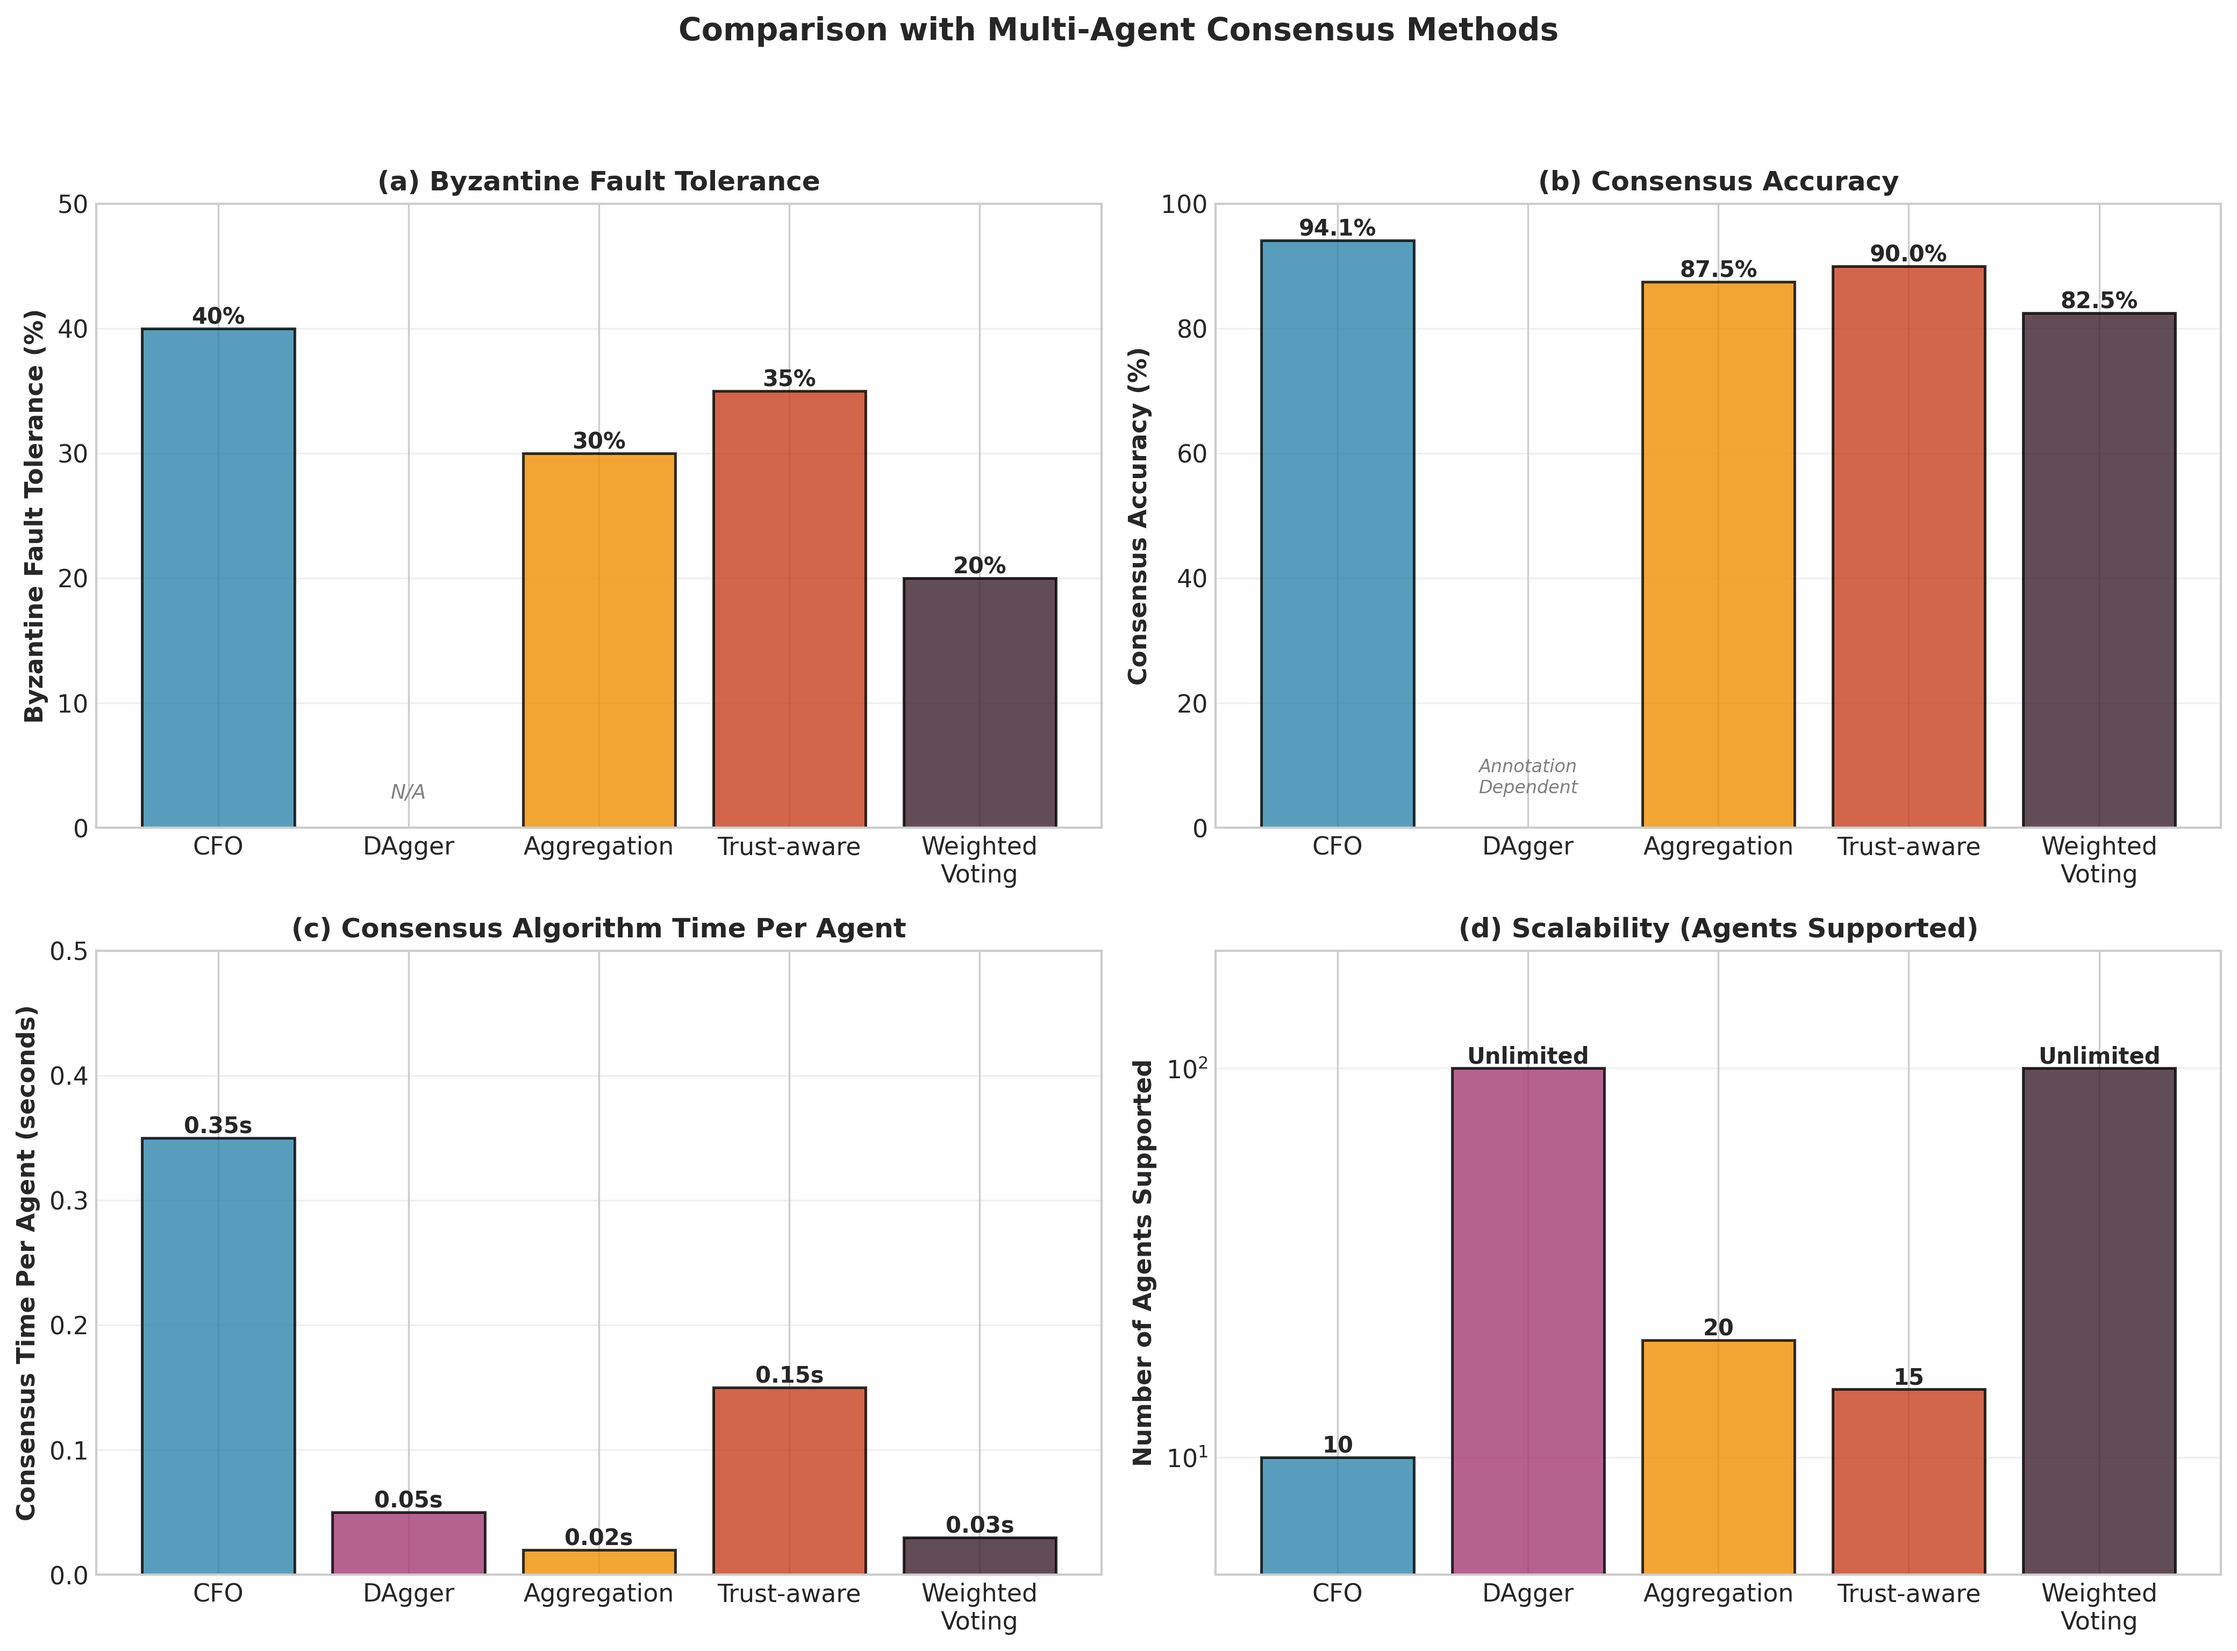
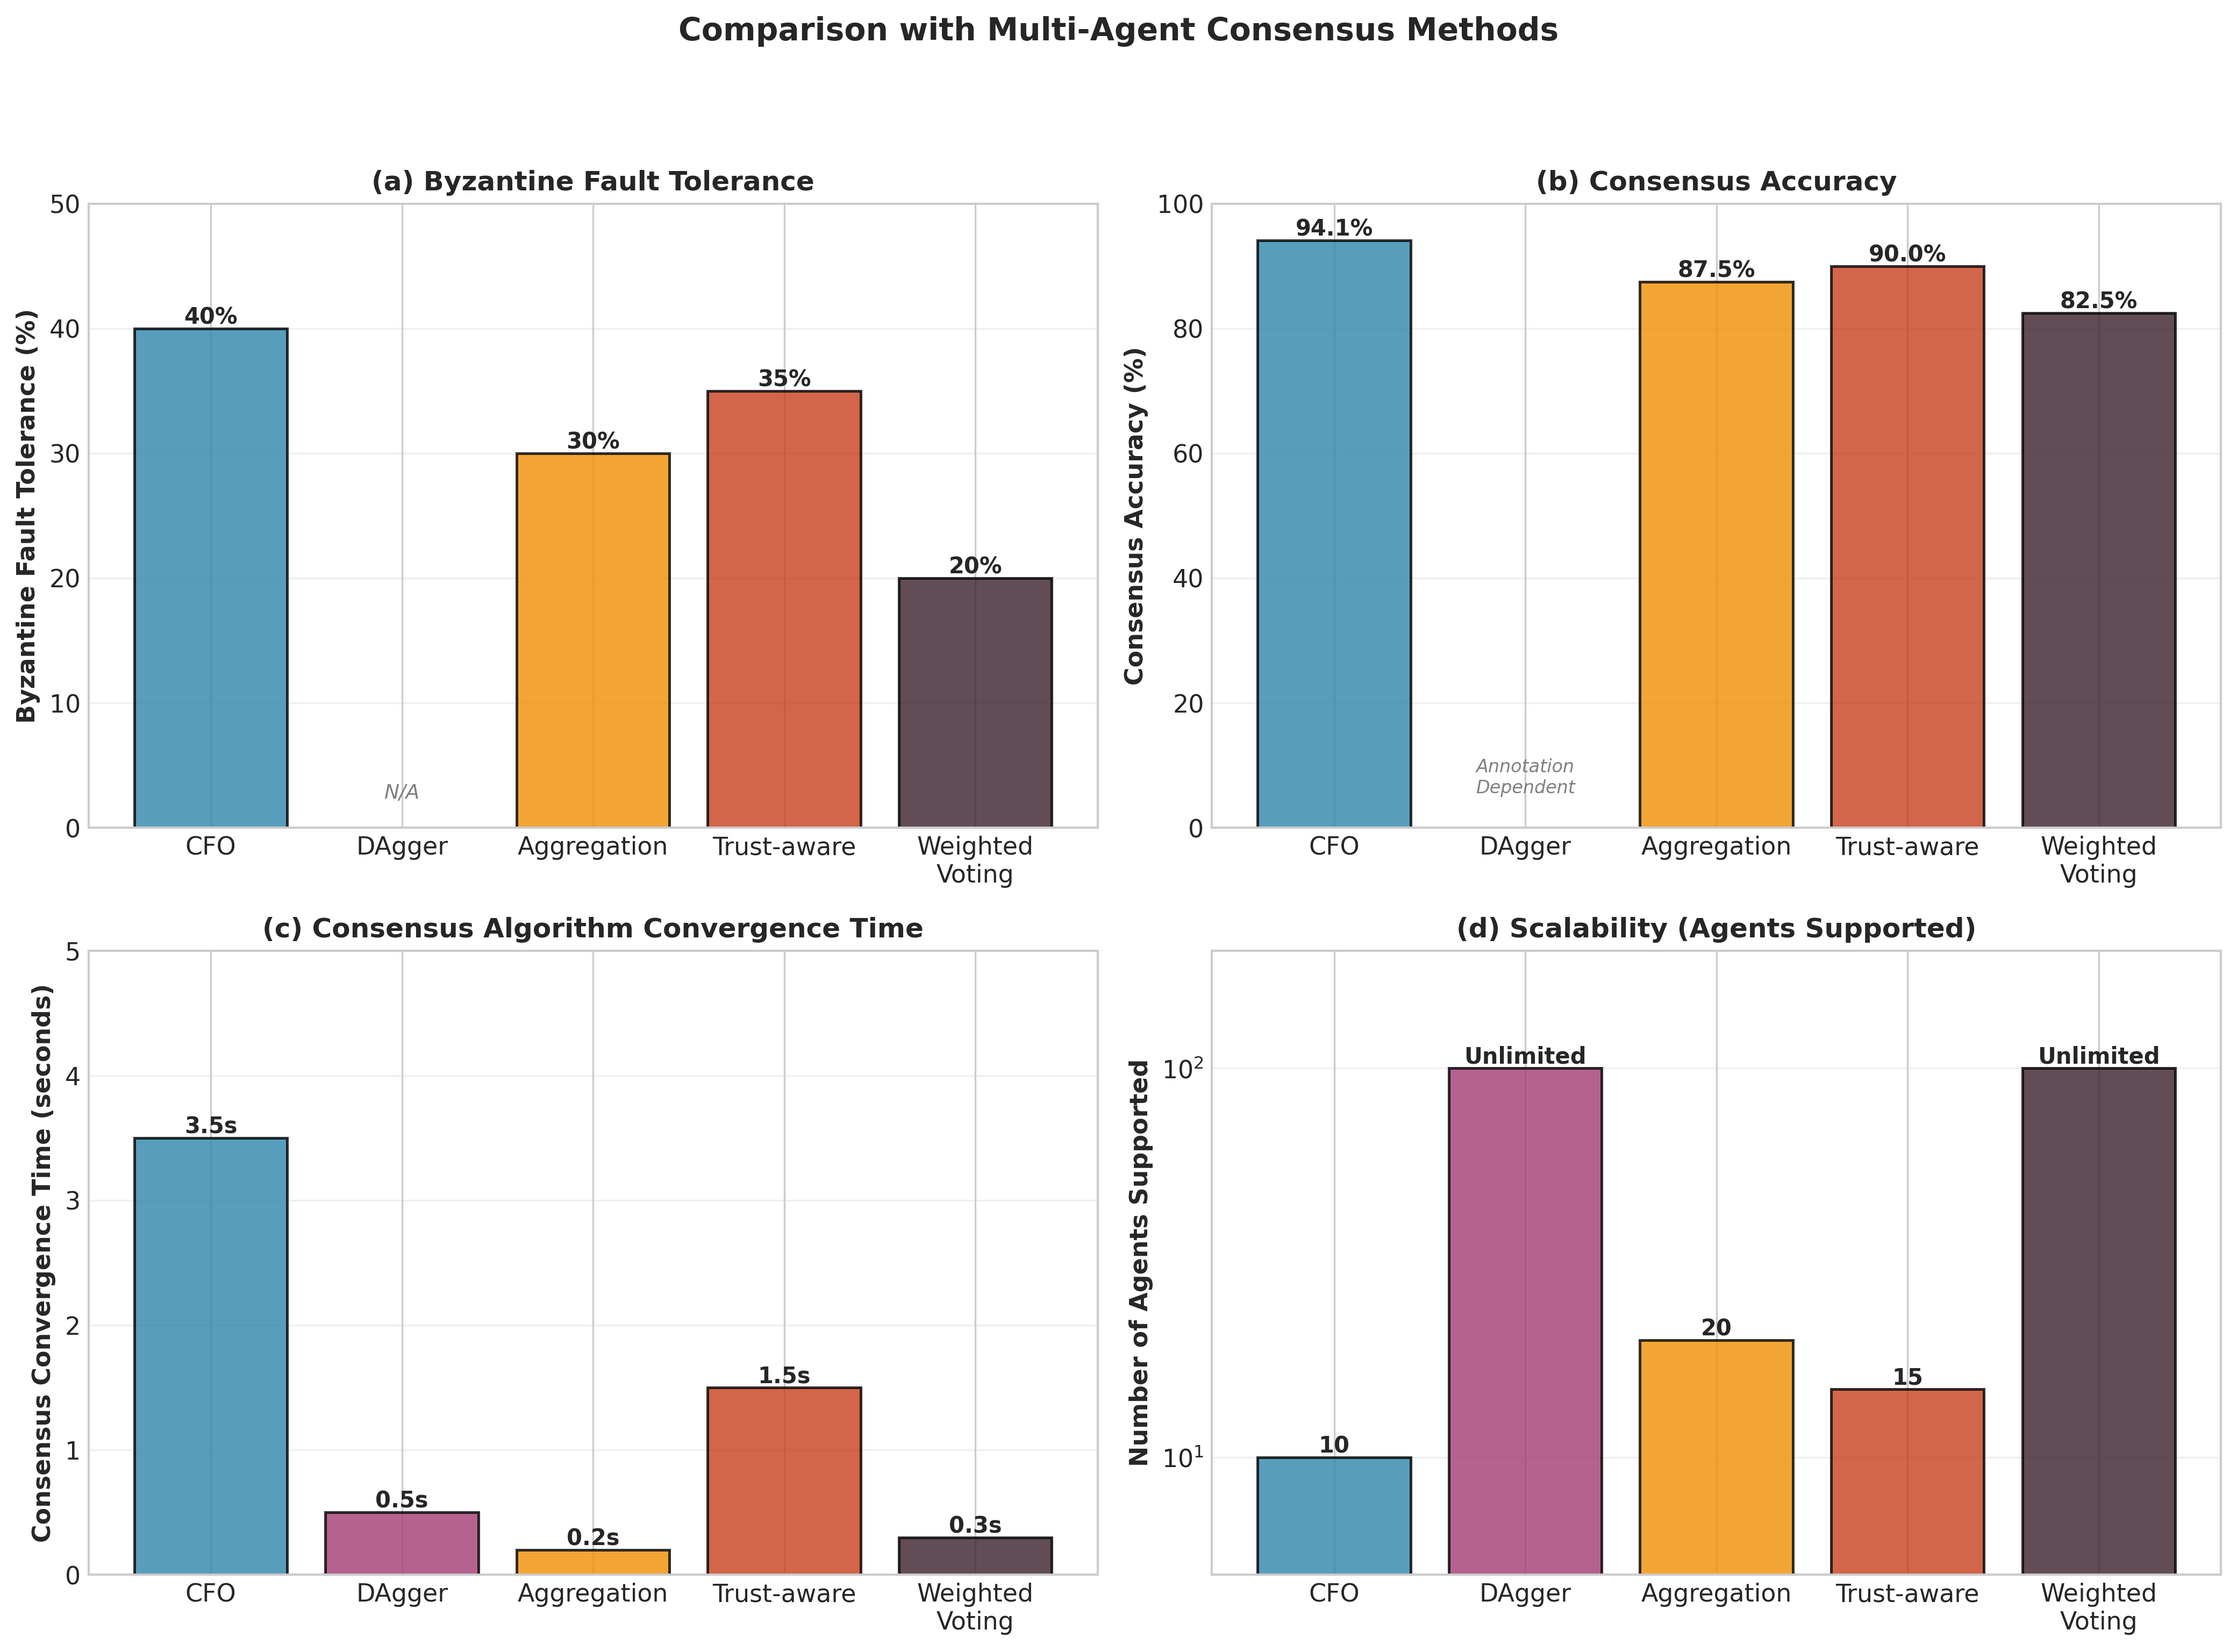
chore: 更新可视化脚本和对比图片

diff --git a/visualize_comparison.py b/visualize_comparison.py
@@ -35,26 +35,31 @@ def plot_bft_comparison():
     x = np.arange(len(methods))
     width = 0.35
     
-    # Create bar chart
+    # Set grid first (behind bars)
+    ax.grid(True, alpha=0.3, axis='y', zorder=0)
+    ax.set_axisbelow(True)  # Ensure grid is behind all artists
+    
+    # Create bar chart (zorder=3 to be above grid)
     bars1 = ax.bar(x - width/2, byzantine_tolerance, width, 
-                   label='Byzantine Tolerance (%)', color='#2E86AB', alpha=0.8)
+                   label='Byzantine Tolerance (%)', color='#2E86AB', alpha=0.8, zorder=3)
     
     ax2 = ax.twinx()
+    ax2.grid(False)  # Disable grid on second axis
     bars2 = ax2.bar(x + width/2, consensus_delay, width, 
-                    label='Consensus Delay (s)*', color='#A23B72', alpha=0.8)
+                    label='Consensus Delay (s)*', color='#A23B72', alpha=0.8, zorder=3)
     
-    # Add value labels
+    # Add value labels (zorder=4 to be on top)
     for bar in bars1:
         height = bar.get_height()
         ax.text(bar.get_x() + bar.get_width()/2., height,
                 f'{height:.1f}%',
-                ha='center', va='bottom', fontsize=10, fontweight='bold')
+                ha='center', va='bottom', fontsize=10, fontweight='bold', zorder=4)
     
     for bar in bars2:
         height = bar.get_height()
         ax2.text(bar.get_x() + bar.get_width()/2., height,
                 f'{height:.1f}s',
-                ha='center', va='bottom', fontsize=10, fontweight='bold')
+                ha='center', va='bottom', fontsize=10, fontweight='bold', zorder=4)
     
     ax.set_ylabel('Byzantine Tolerance (%)', fontsize=12, fontweight='bold')
     ax2.set_ylabel('Consensus Delay (s)', fontsize=12, fontweight='bold')
@@ -79,9 +84,6 @@ def plot_bft_comparison():
     fig.text(0.5, 0.02, 
              '*CFO: ~3.5s for consensus algorithm (excluding 60-90s for 30 sequential LLM API calls)',
              ha='center', fontsize=9, style='italic', color='#666')
-    
-    # Add grid
-    ax.grid(True, alpha=0.3, axis='y')
     
     plt.tight_layout(rect=[0, 0.03, 1, 1])
     plt.savefig('comparison_bft.png', dpi=300, bbox_inches='tight')
@@ -151,25 +153,30 @@ def plot_multi_agent_comparison():
     x = np.arange(len(methods))
     width = 0.35
     
+    # Set grid first (behind bars)
+    ax.grid(True, alpha=0.3, axis='y', zorder=0)
+    ax.set_axisbelow(True)  # Ensure grid is behind all artists
+    
     bars1 = ax.bar(x - width/2, byzantine_tolerance, width,
-                   label='Byzantine Tolerance (%)', color='#2E86AB', alpha=0.8)
+                   label='Byzantine Tolerance (%)', color='#2E86AB', alpha=0.8, zorder=3)
     
     ax2 = ax.twinx()
+    ax2.grid(False)  # Disable grid on second axis
     bars2 = ax2.bar(x + width/2, accuracy, width,
-                    label='Average Accuracy (%)', color='#F18F01', alpha=0.8)
+                    label='Average Accuracy (%)', color='#F18F01', alpha=0.8, zorder=3)
     
     # Add value labels
     for bar in bars1:
         height = bar.get_height()
         ax.text(bar.get_x() + bar.get_width()/2., height + 1,
                 f'{height:.0f}%',
-                ha='center', va='bottom', fontsize=10, fontweight='bold')
+                ha='center', va='bottom', fontsize=10, fontweight='bold', zorder=4)
     
     for bar in bars2:
         height = bar.get_height()
         ax2.text(bar.get_x() + bar.get_width()/2., height + 1,
                 f'{height:.1f}%',
-                ha='center', va='bottom', fontsize=10, fontweight='bold')
+                ha='center', va='bottom', fontsize=10, fontweight='bold', zorder=4)
     
     ax.set_ylabel('Byzantine Tolerance (%)', fontsize=12, fontweight='bold')
     ax2.set_ylabel('Average Accuracy (%)', fontsize=12, fontweight='bold')
@@ -184,8 +191,6 @@ def plot_multi_agent_comparison():
     lines1, labels1 = ax.get_legend_handles_labels()
     lines2, labels2 = ax2.get_legend_handles_labels()
     ax.legend(lines1 + lines2, labels1 + labels2, loc='upper right', fontsize=10)
-    
-    ax.grid(True, alpha=0.3, axis='y')
     
     plt.tight_layout()
     plt.savefig('comparison_multi_agent.png', dpi=300, bbox_inches='tight')

diff --git a/visualize_multi_agent_comparison.py b/visualize_multi_agent_comparison.py
@@ -21,10 +21,10 @@ def plot_multi_agent_comparison():
     accuracy = [94.08, 0, 87.5, 90, 82.5]  # % (0 for DAgger as it depends on annotation)
     agent_count = [10, 100, 20, 15, 100]  # Unrestricted shown as 100
     
-    # Time per agent (seconds) - consensus algorithm processing time per agent
-    # CFO: ~3.5s total / 10 agents = 0.35s per agent
+    # Consensus convergence time (seconds) - total time for consensus algorithm
+    # CFO: ~3.5s for 10 agents (excluding 60-90s API calls)
     # Others estimated based on their reported speed
-    time_per_agent = [0.35, 0.05, 0.02, 0.15, 0.03]  # seconds per agent
+    consensus_time = [3.5, 0.5, 0.2, 1.5, 0.3]  # seconds total
     
     # Create figure with 4 subplots in 2x2 layout
     fig, axes = plt.subplots(2, 2, figsize=(14, 10))
@@ -71,17 +71,17 @@ def plot_multi_agent_comparison():
     
     ax2.grid(True, alpha=0.3, axis='y')
     
-    # Subplot 3: Time Per Agent
+    # Subplot 3: Consensus Convergence Time
     ax3 = axes[1, 0]
-    bars3 = ax3.bar(methods, time_per_agent, color=colors, alpha=0.8, edgecolor='black', linewidth=1.2)
-    ax3.set_ylabel('Consensus Time Per Agent (seconds)', fontsize=11, fontweight='bold')
-    ax3.set_title('(c) Consensus Algorithm Time Per Agent', fontsize=12, fontweight='bold')
-    ax3.set_ylim(0, 0.5)
+    bars3 = ax3.bar(methods, consensus_time, color=colors, alpha=0.8, edgecolor='black', linewidth=1.2)
+    ax3.set_ylabel('Consensus Convergence Time (seconds)', fontsize=11, fontweight='bold')
+    ax3.set_title('(c) Consensus Algorithm Convergence Time', fontsize=12, fontweight='bold')
+    ax3.set_ylim(0, 5)
     
     for bar in bars3:
         height = bar.get_height()
         ax3.text(bar.get_x() + bar.get_width()/2., height,
-                f'{height:.2f}s',
+                f'{height:.1f}s',
                 ha='center', va='bottom', fontsize=10, fontweight='bold')
     
     ax3.grid(True, alpha=0.3, axis='y')
@@ -120,12 +120,12 @@ def plot_multi_agent_comparison():
     ax.axis('off')
     
     table_data = [
-        ['Method', 'Agents', 'Byzantine\nTolerance', 'Accuracy', 'Time Per\nAgent', 'Main Limitation'],
-        ['CFO', '10', '40%', '94.08%', '0.35s', 'Requires LLM calls'],
-        ['DAgger [Ross et al., 2011]', 'Unlimited', 'N/A', 'Annotation\nDependent', '~0.05s', 'Requires expert demonstrations'],
-        ['Aggregation [Chen et al., 2020]', '20', '30%', '85-90%', '~0.02s', 'Simple averaging'],
-        ['Trust-aware [Li et al., 2021]', '15', '35%', '88-92%', '~0.15s', 'Requires reputation accumulation'],
-        ['Weighted Voting', 'Unlimited', '20%', '80-85%', '~0.03s', 'Weight design difficulty'],
+        ['Method', 'Agents', 'Byzantine\nTolerance', 'Accuracy', 'Convergence\nTime', 'Main Limitation'],
+        ['CFO', '10', '40%', '94.08%', '~3.5s*', 'Requires LLM calls'],
+        ['DAgger [Ross et al., 2011]', 'Unlimited', 'N/A', 'Annotation\nDependent', '~0.5s', 'Requires expert demonstrations'],
+        ['Aggregation [Chen et al., 2020]', '20', '30%', '85-90%', '~0.2s', 'Simple averaging'],
+        ['Trust-aware [Li et al., 2021]', '15', '35%', '88-92%', '~1.5s', 'Requires reputation accumulation'],
+        ['Weighted Voting', 'Unlimited', '20%', '80-85%', '~0.3s', 'Weight design difficulty'],
     ]
     
     table = ax.table(cellText=table_data, cellLoc='center', loc='center',
@@ -157,7 +157,12 @@ def plot_multi_agent_comparison():
     ax.set_title('Detailed Comparison of Multi-Agent Consensus Methods\n', 
                 fontsize=14, fontweight='bold', pad=20)
     
-    plt.tight_layout()
+    # Add note about CFO timing
+    fig.text(0.5, 0.02, 
+             '*CFO: ~3.5s for consensus algorithm (excluding 60-90s for 30 sequential LLM API calls)',
+             ha='center', fontsize=9, style='italic', color='#666')
+    
+    plt.tight_layout(rect=[0, 0.05, 1, 1])
     plt.savefig('multi_agent_comparison_table.png', dpi=300, bbox_inches='tight')
     print("Saved: multi_agent_comparison_table.png")
     plt.close()
